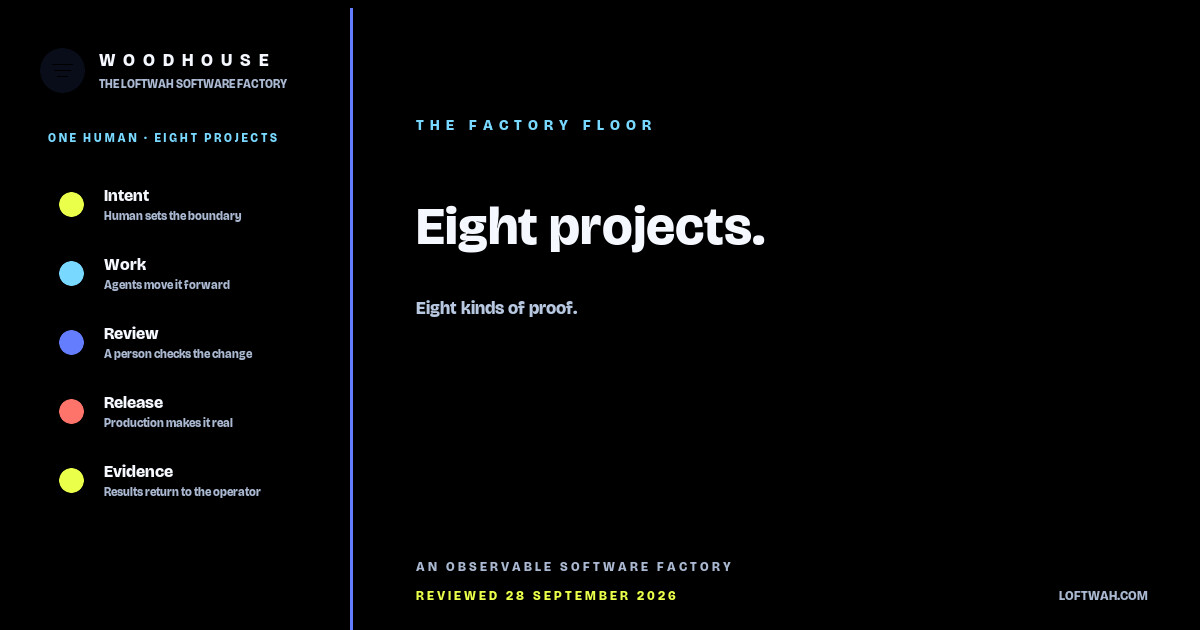
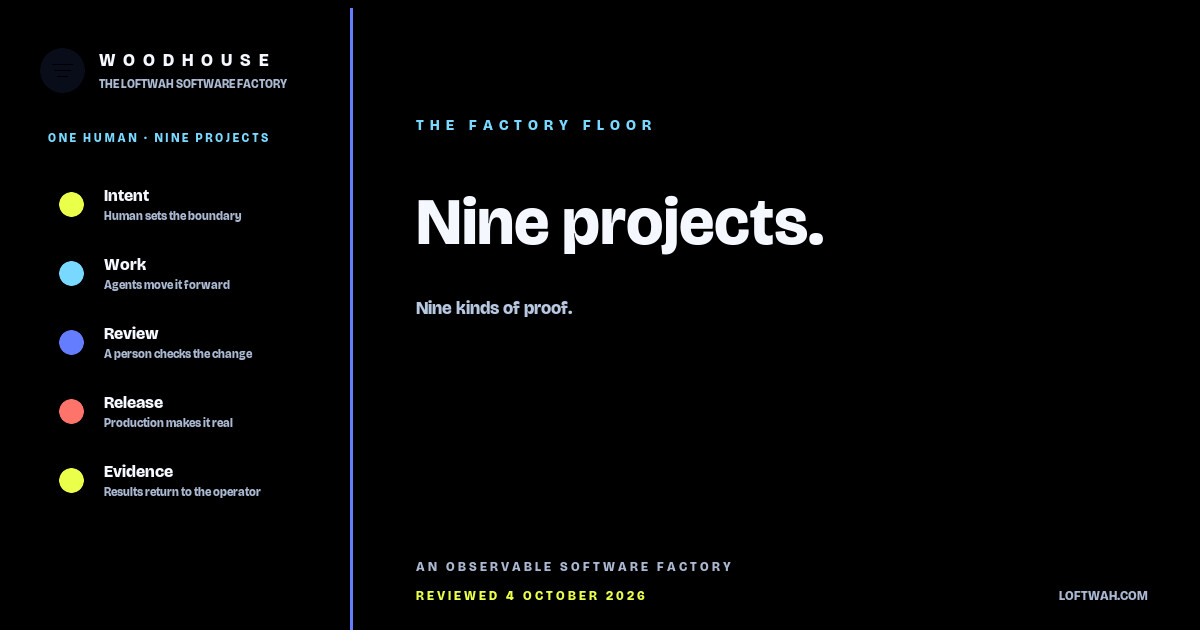
Render the missing dispatch social cards and stop advertising absent ones
The page audit found three published dispatches whose `og:image` returned 404:
`eight-finish-lines`, `prove-which-build-is-live` and the new nine-project
report. The template pointed at `/og/dispatches/<slug>.jpg` for every dispatch
while its own comment promised a fallback to the shared factory card, so any
dispatch published without a rendered card advertised a dead path to every
share and crawler.

Rendered the three missing cards, and made the fallback real: the card set is
authored, not generated, so `scripts/social-cards.mjs` records which cards exist
from the files on disk, the template reads that list, and `pnpm run verify` fails
when the list and the files disagree.

The card renderer also stamped every card with "ONE HUMAN · EIGHT PROJECTS" and
"REVIEWED 28 SEPTEMBER 2026", which made a card for work reviewed in October
claim a September review. The project count is now nine and the review date is
per card, taken from the dispatch's own review date.

diff --git a/src/data/social-cards.ts b/src/data/social-cards.ts
@@ -1,0 +1,25 @@
+/**
+ * Which dispatch social cards actually exist under `public/og/dispatches/`.
+ *
+ * The card set is authored, not generated from the content model, so a dispatch
+ * can be published without one. Pointing `og:image` at a card that was never
+ * rendered advertises a 404 to every share and to every crawler, so the
+ * template asks this manifest instead of assuming.
+ *
+ * `scripts/social-cards.mjs` writes the list from the files on disk and
+ * `pnpm run verify` fails when the two disagree.
+ */
+const DISPATCH_SOCIAL_CARDS: readonly string[] = [
+  "a-gate-for-what-the-source-proves",
+  "eight-finish-lines",
+  "i-didnt-mean-to-build-a-software-factory",
+  "nine-projects-and-the-first-one-you-can-check",
+  "prove-which-build-is-live",
+  "software-is-not-the-walker",
+  "the-tests-passed"
+];
+
+export function dispatchSocialCard(slug: string | null | undefined): string {
+  if (!slug) return "/og/factory.jpg";
+  return DISPATCH_SOCIAL_CARDS.includes(slug) ? `/og/dispatches/${slug}.jpg` : "/og/factory.jpg";
+}

diff --git a/scripts/render-social-cards.py b/scripts/render-social-cards.py
@@ -8,19 +8,25 @@ ROOT = Path(__file__).resolve().parents[1]
 FONT_PATH = ROOT / "scripts/assets/BricolageGrotesque-Variable.ttf"
 DEST = ROOT / "public" / "og"
 # The project dossier preview is an authored image, separate from this batch renderer.
+# name -> (label, title, subtitle, review date). The review date is per card
+# because a card that names the wrong review date is a claim about work that
+# was not reviewed on that day.
 CARDS = {
-    "woodhouse": ("THE LOFTWAH SOFTWARE FACTORY", "Keeping the machinery running.", "Eight projects. One human operator."),
-    "factory": ("THE FACTORY FLOOR", "Eight projects.", "Eight kinds of proof."),
-    "dean": ("THE HUMAN OPERATOR", "Dean Lofts.", "Systems that turn intent into shipped software."),
-    "dispatches/i-didnt-mean-to-build-a-software-factory": ("FOUNDING ESSAY", "I Didn't Mean to Build a Software Factory", "How agents, evidence and real products became one system."),
-    "the-tests-passed": ("FACTORY INCIDENT", "The tests passed.", "The game still looked wrong."),
-    "dispatches/a-gate-for-what-the-source-proves": ("PIRATES · FIELD NOTE", "Parity before invention.", "The Gate B reconstruction stays locked until the source supports it."),
-    "dispatches/software-is-not-the-walker": ("MAX · FIELD NOTE", "Software is not the walker.", "A green build cannot prove the real-world FIND path."),
-    "dispatches/the-tests-passed": ("FACTORY INCIDENT", "The tests passed.", "The game still looked wrong."),
+    "woodhouse": ("THE LOFTWAH SOFTWARE FACTORY", "Keeping the machinery running.", "Nine projects. One human operator.", "28 September 2026"),
+    "factory": ("THE FACTORY FLOOR", "Nine projects.", "Nine kinds of proof.", "4 October 2026"),
+    "dean": ("THE HUMAN OPERATOR", "Dean Lofts.", "Systems that turn intent into shipped software.", "28 September 2026"),
+    "dispatches/i-didnt-mean-to-build-a-software-factory": ("FOUNDING ESSAY", "I Didn't Mean to Build a Software Factory", "How agents, evidence and real products became one system.", "28 September 2026"),
+    "the-tests-passed": ("FACTORY INCIDENT", "The tests passed.", "The game still looked wrong.", "28 September 2026"),
+    "dispatches/a-gate-for-what-the-source-proves": ("PIRATES · FIELD NOTE", "Parity before invention.", "The Gate B reconstruction stays locked until the source supports it.", "28 September 2026"),
+    "dispatches/software-is-not-the-walker": ("MAX · FIELD NOTE", "Software is not the walker.", "A green build cannot prove the real-world FIND path.", "28 September 2026"),
+    "dispatches/the-tests-passed": ("FACTORY INCIDENT", "The tests passed.", "The game still looked wrong.", "28 September 2026"),
+    "dispatches/eight-finish-lines": ("PORTFOLIO REPORT", "Eight projects. Eight different finish lines.", "A dated review separates what each project can do from the proof still needed.", "1 October 2026"),
+    "dispatches/prove-which-build-is-live": ("FIELD NOTE", "Prove which build is live.", "A deploy receipt records intent. The origin now reports what it actually serves.", "4 October 2026"),
+    "dispatches/nine-projects-and-the-first-one-you-can-check": ("PORTFOLIO REPORT", "Nine projects, and the first one you can check.", "Asset Hunter publishes the commit it was built from. The other eight are reviewed summaries.", "4 October 2026"),
 }
 
 
-def card_svg(label: str, title: str, subtitle: str) -> str:
+def card_svg(label: str, title: str, subtitle: str, reviewed: str) -> str:
     safe_label = html.escape(label)
     title_lines = textwrap.wrap(title, width=22, break_long_words=False, break_on_hyphens=False)
     subtitle_lines = textwrap.wrap(subtitle, width=59, break_long_words=False, break_on_hyphens=False)
@@ -44,7 +50,7 @@ def card_svg(label: str, title: str, subtitle: str) -> str:
   <path d="M52 64h20M54 70h16M57 76h10" stroke="#e9ff49" stroke-width="2"/>
   <text x="99" y="66" fill="#f4f7fd" font-family="Bricolage Grotesque" font-size="18" font-weight="800" letter-spacing="2">WOODHOUSE</text>
   <text x="99" y="88" fill="#a9b8d0" font-family="Bricolage Grotesque" font-size="12">THE LOFTWAH SOFTWARE FACTORY</text>
-  <text x="48" y="142" fill="#79d8ff" font-family="Menlo,monospace" font-size="12" font-weight="700" letter-spacing="1.4">ONE HUMAN · EIGHT PROJECTS</text>
+  <text x="48" y="142" fill="#79d8ff" font-family="Menlo,monospace" font-size="12" font-weight="700" letter-spacing="1.4">ONE HUMAN · NINE PROJECTS</text>
   <path d="M71 192V486" stroke="#647dff" stroke-width="3" stroke-dasharray="5 7"/>
   <circle cx="71" cy="204" r="12" fill="#e9ff49"/><text x="104" y="201" fill="#f4f7fd" font-family="Bricolage Grotesque" font-size="17" font-weight="700">Intent</text><text x="104" y="220" fill="#a9b8d0" font-family="Bricolage Grotesque" font-size="12">Human sets the boundary</text>
   <circle cx="71" cy="273" r="12" fill="#79d8ff"/><text x="104" y="270" fill="#f4f7fd" font-family="Bricolage Grotesque" font-size="17" font-weight="700">Work</text><text x="104" y="289" fill="#a9b8d0" font-family="Bricolage Grotesque" font-size="12">Agents move it forward</text>
@@ -58,7 +64,7 @@ def card_svg(label: str, title: str, subtitle: str) -> str:
   {subtitle_text}
   <path d="M416 534H1148" stroke="#34425e" stroke-width="1"/>
   <text x="416" y="571" fill="#a9b8d0" font-family="Menlo,monospace" font-size="13" letter-spacing="1">AN OBSERVABLE SOFTWARE FACTORY</text>
-  <text x="416" y="600" fill="#e9ff49" font-family="Menlo,monospace" font-size="13" letter-spacing="1">REVIEWED 28 SEPTEMBER 2026</text>
+  <text x="416" y="600" fill="#e9ff49" font-family="Menlo,monospace" font-size="13" letter-spacing="1">REVIEWED {html.escape(reviewed.upper())}</text>
   <text x="1148" y="600" fill="#a9b8d0" font-family="Menlo,monospace" font-size="13" text-anchor="end">LOFTWAH.COM</text>
 </svg>'''
 
